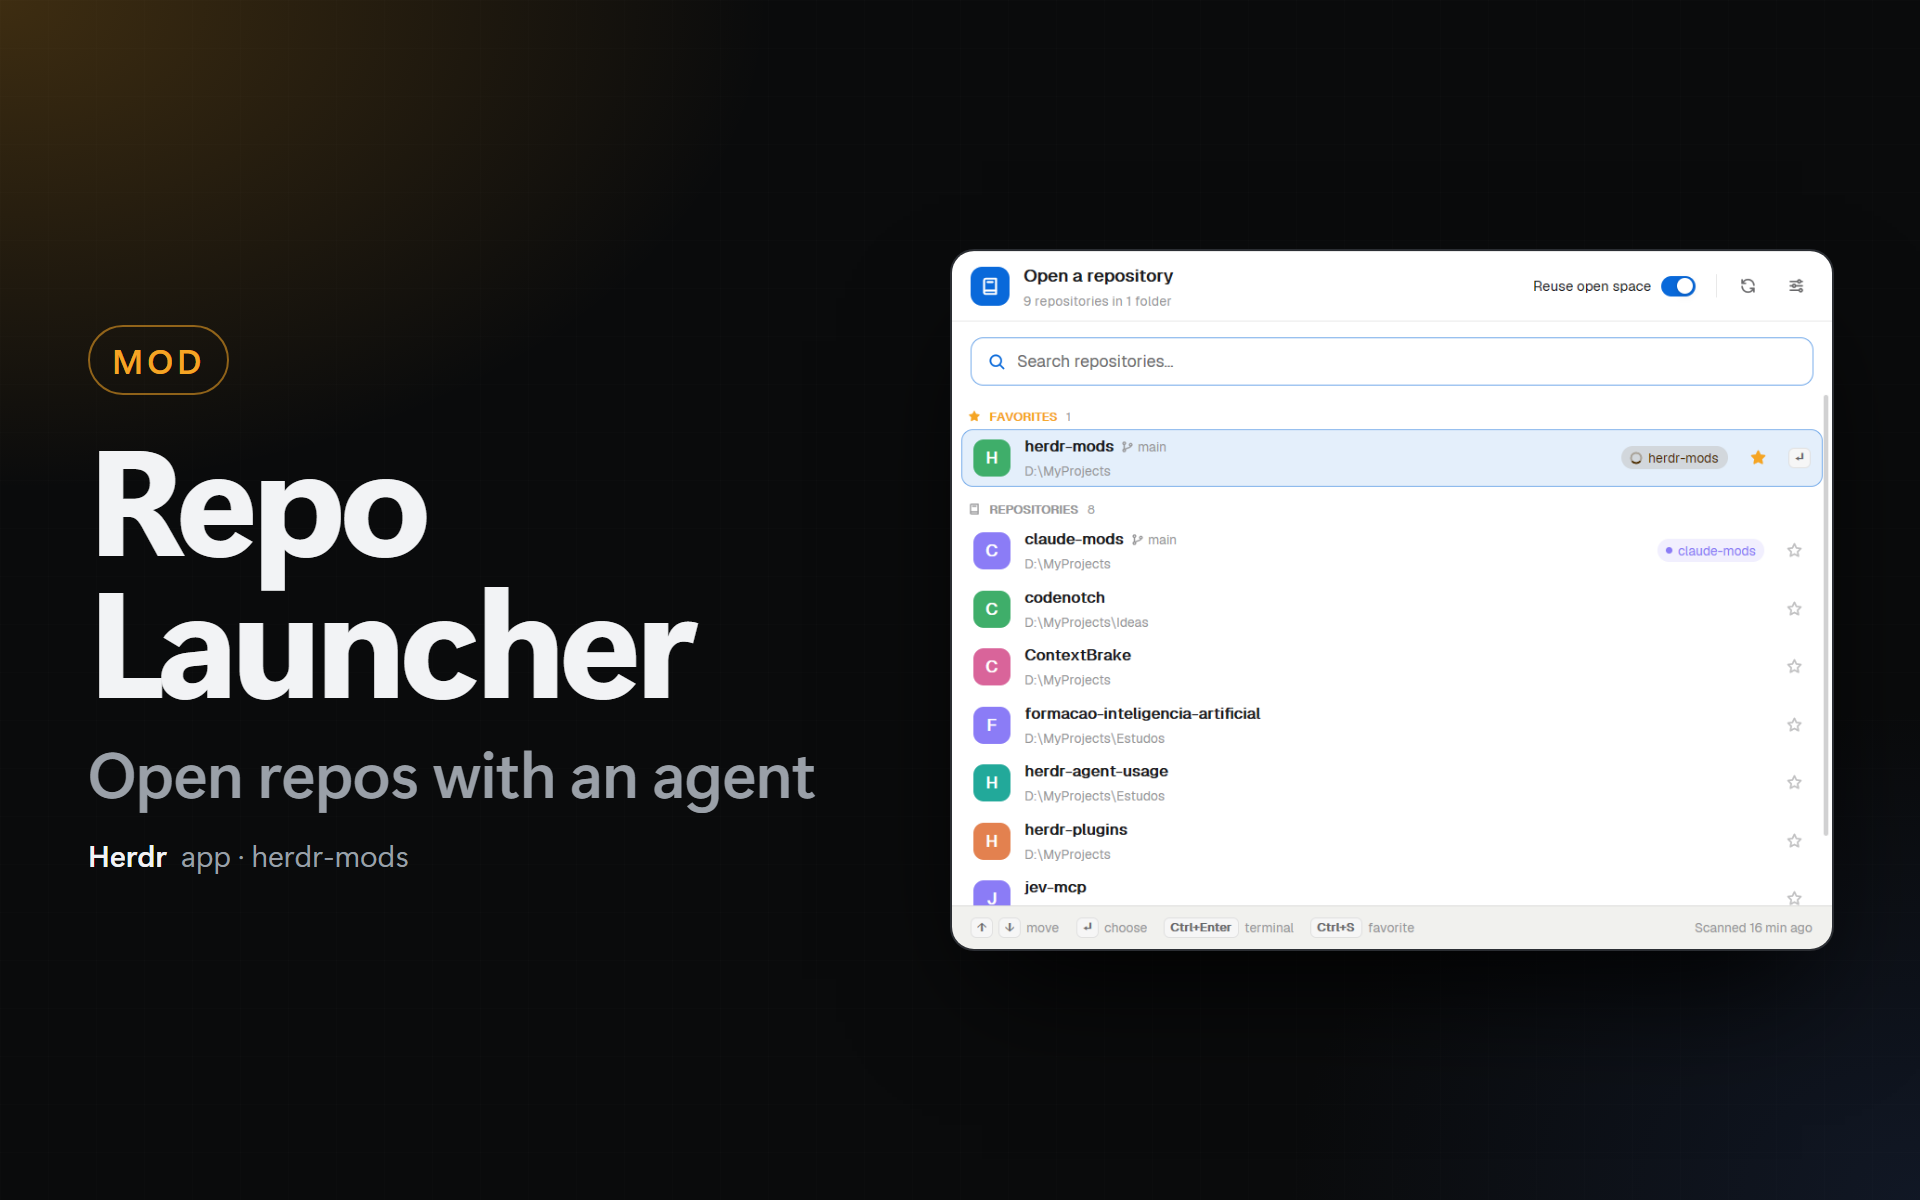
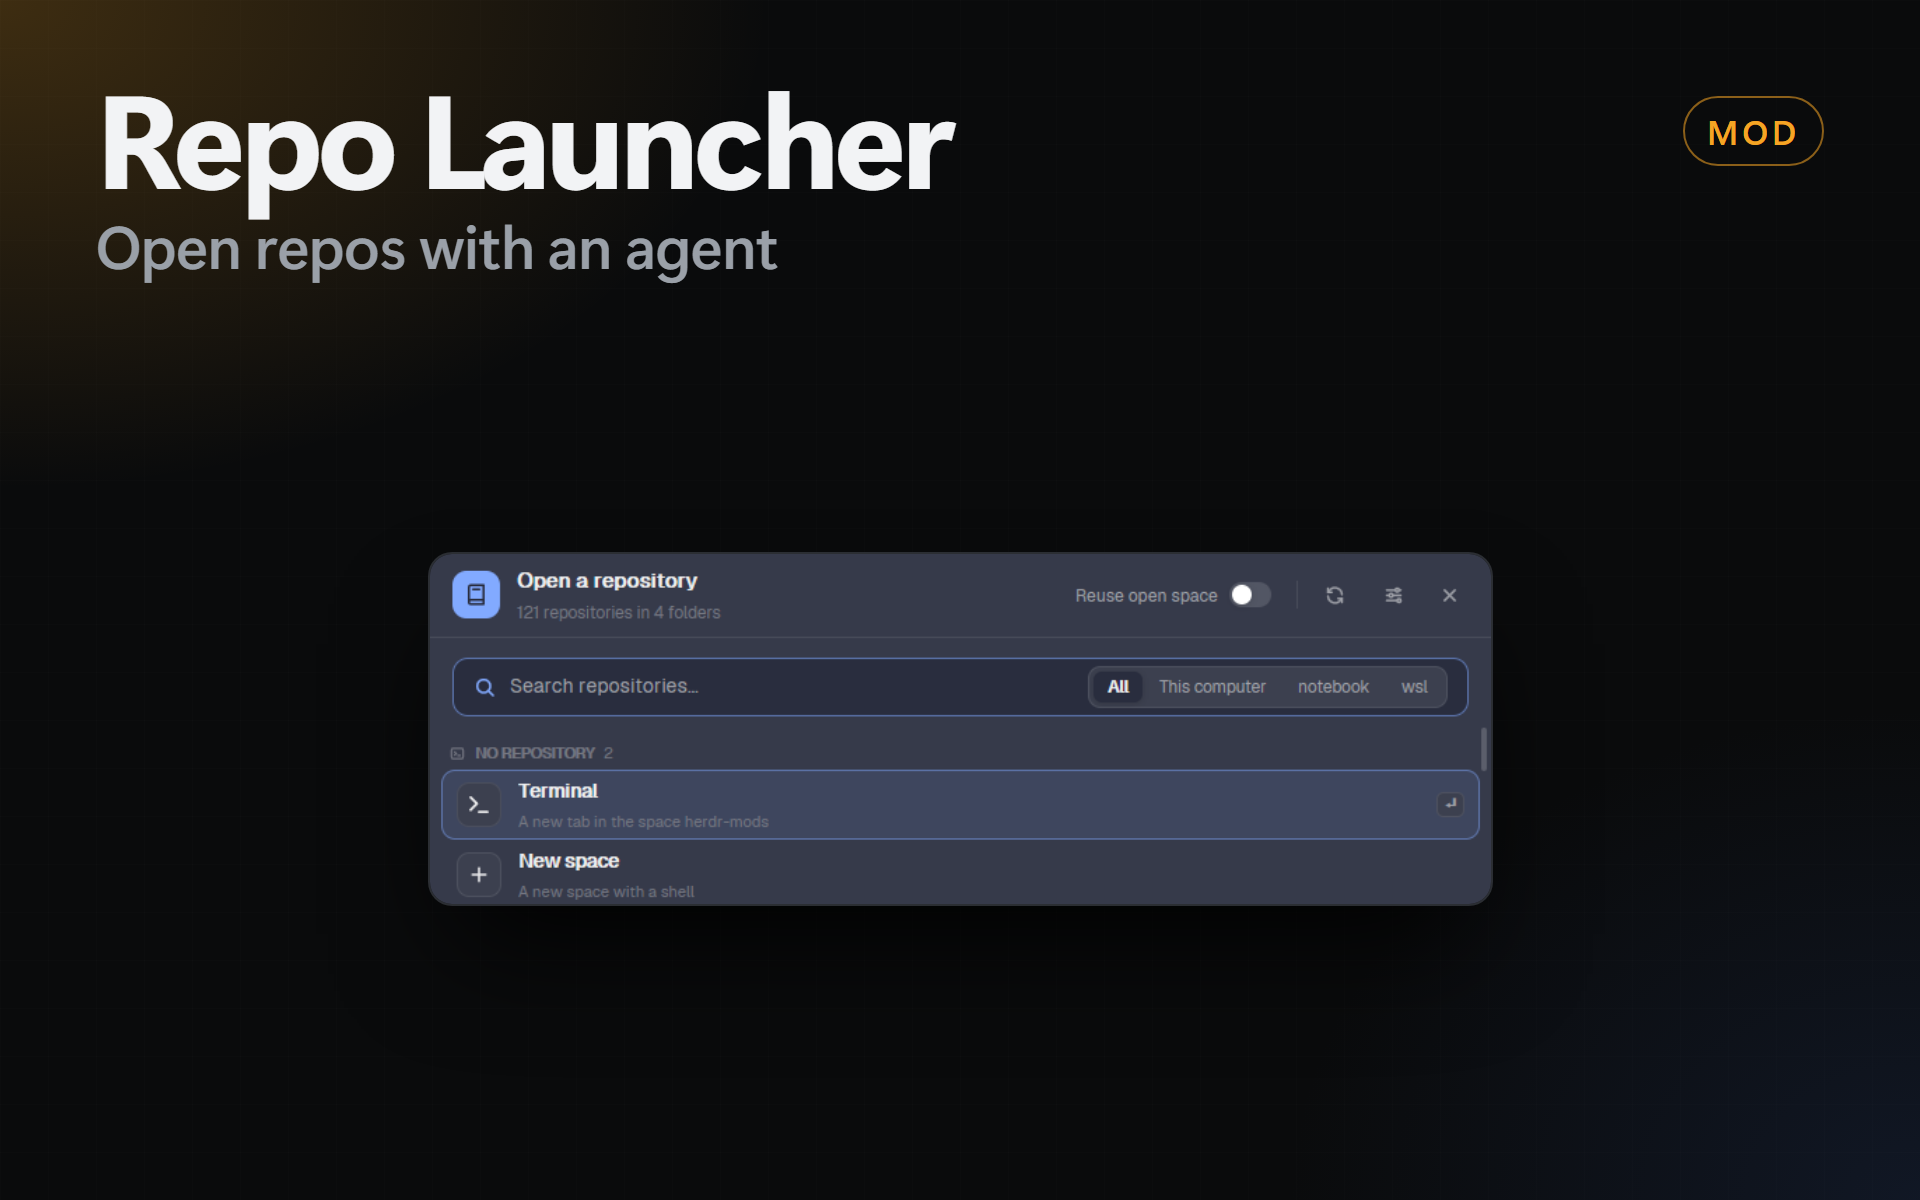
Open spaces on machines without repositories

diff --git a/repo-launcher-app/mods/repo-launcher/main.js b/repo-launcher-app/mods/repo-launcher/main.js
@@ -244,14 +244,14 @@ export default class RepoLauncher extends View {
     cx.notify();
   }
 
-  /** The choices of the quick filter: none when all repositories are on this computer. */
+  /** The choices of the quick filter, including machines with no repositories. */
   places() {
-    const names = [...new Set(cache().repos.map((r) => r.machine).filter(Boolean))].sort();
+    const names = remoteMachines().sort();
     if (!names.length) return [];
     return [{ value: "all", label: "All" }, { value: "local", label: "This computer" }, ...names.map((m) => ({ value: m, label: m }))];
   }
 
-  /** The quick filter now; "all" when its machine has no repositories any more. */
+  /** The quick filter now; "all" when its machine is no longer listed. */
   place() {
     return this.places().some((p) => p.value === memory.place) ? memory.place : "all";
   }
@@ -278,7 +278,7 @@ export default class RepoLauncher extends View {
       for (const r of items) rows.push({ kind: "repo", ...r });
     };
 
-    const free = this.freeRows(q);
+    const free = this.freeRows(q, place);
     const addFree = () => {
       if (!free.length) return;
       rows.push({ kind: "head", title: "No repository", count: free.length, symbol: "terminal" });
@@ -332,13 +332,16 @@ export default class RepoLauncher extends View {
    * Herdr's own New menu: in the shown space, or in a new space. Their
    * `repo` is a stand-in with `free: true` and no path.
    */
-  freeRows(q) {
+  freeRows(q, place) {
     const active = spaces().find((s) => s.active);
-    const machine = active?.machine ?? null;
+    const activeMachine = active?.machine ?? null;
+    const machine = place === "all" ? activeMachine : place === "local" ? null : place;
     const items = [
-      { key: "terminal", title: "Terminal", detail: active ? `A new tab in the space ${active.name}` : "A new tab in the shown space", pick: null },
       { key: "space", title: "New space", detail: machine ? `A new space on ${machine}` : "A new space with a shell", pick: "new" },
     ];
+    if (machine === activeMachine) {
+      items.unshift({ key: "terminal", title: "Terminal", detail: active ? `A new tab in the space ${active.name}` : "A new tab in the shown space", pick: null });
+    }
     const out = [];
     for (const it of items) {
       const match = q ? matchRepo(q, it.title, it.detail) : null;
@@ -766,7 +769,7 @@ export default class RepoLauncher extends View {
 
     const roots = allRoots();
     const subtitle = roots.length === 0
-      ? "Add a folder to start"
+      ? "Add a folder in Settings to find repositories"
       : `${c.repos.length} repositories in ${roots.length} folder${roots.length === 1 ? "" : "s"}`;
 
     const head = this.header(t, "Open a repository", subtitle, {
@@ -787,20 +790,20 @@ export default class RepoLauncher extends View {
       .child(svg(icon("search")).size(16).text_color(t.accent))
       .child(Input.new(this.query).flex_1().h_full().text_size(14).text_color(t.foreground))
       .when(Boolean(this.filter), (e) => e.child(div().text_size(11).text_color(t.dim).child(`${list.length} match${list.length === 1 ? "" : "es"}`)))
-      .when(this.places().length > 0, (e) => e.child(div().flex_none().tooltip(`Show the repositories of one machine (${prettyKeys("ctrl-m")})`)
+      .when(this.places().length > 0, (e) => e.child(div().flex_none().tooltip(`Choose a machine for repositories and new spaces (${prettyKeys("ctrl-m")})`)
         .on_mouse_down("left", (_e, cx) => cx.stop_propagation())
         .child(segmented(t, "rl-place", this.places(), this.place(), (v, cx) => this.setPlace(v, cx)))));
 
     let content;
-    if (roots.length === 0) {
+    if (!list.length && roots.length === 0) {
       content = this.emptyState(t, "folder-plus", "Add the folders that hold your repositories",
         "The launcher reads them once and keeps the list. Refresh reads them again.",
         h_flex().gap(8)
           .child(button(t, "rl-add-first", "Add folder…", (cx) => this.addRoot(cx), { primary: true, symbol: "plus" }))
           .when(remoteMachines().length > 0, (e) => e.child(button(t, "rl-add-remote-first", "Folder on another machine…", (cx) => this.openSettings(cx), { symbol: "folder-plus" }))));
-    } else if (c.repos.length === 0 && scanning) {
+    } else if (!list.length && c.repos.length === 0 && scanning) {
       content = this.emptyState(t, null, "Looking for repositories…", roots.map((r) => placeLabel(r.id)).join("  ·  "));
-    } else if (c.repos.length === 0) {
+    } else if (!list.length && c.repos.length === 0) {
       content = this.emptyState(t, "repo", "No repositories found",
         `The search opens ${3} folder levels under each root folder.`,
         button(t, "rl-rescan", "Refresh", (cx) => { memory.scanningSince = 0; this.scan(cx, { quiet: false }); }, { symbol: "refresh" }));

diff --git a/repo-launcher-app/README.md b/repo-launcher-app/README.md
@@ -17,7 +17,7 @@ A Herdr app mod that opens a repository from the keyboard. Press `Ctrl+P`, type 
 - **Cached agents.** The launcher keeps the list of installed agents in shared state, so the popup opens without starting a shell. After you install or remove an agent, click **Refresh agents** in the settings.
 - **Shortcut.** Change it in the settings: click **Change** and press the new keys. The launcher writes it to `keys.json`.
 - **Other machines.** Add a folder of a machine of `hc machine ls` in the settings: pick the machine and type the path (`~/code` or `C:\Projects`). Its repositories show in an **On <machine>** section, and a repository opens in a space on that machine, with the agents installed there. The machine can run Windows, macOS or Linux.
-- **Machine filter.** When some repositories are on other machines, a switch in the search bar shows all of them, only this computer, or only one machine (`Ctrl+M`).
+- **Machine picker.** Pick a machine in the search bar (or cycle with `Ctrl+M`), select **New space** under **No repository**, and press `Ctrl+Enter` to open a shell there. The picker includes machines with no repositories. **All** uses the current space's machine for new spaces.
 
 ![The choices of a repository: a terminal, and each agent with each of its accounts](preview-choices.png)
 
@@ -89,7 +89,7 @@ It needs the `repo-launcher` mod (it uses its icon and opens it).
 | List | `Ctrl+S` | Add or remove the favorite |
 | List | `Ctrl+E` | Turn "Reuse open space" on or off |
 | List | `Ctrl+R` | Read the root folders again |
-| List | `Ctrl+M` | Show all repositories, this computer only, or one machine only |
+| List | `Ctrl+M` | Cycle through machines for repositories and new spaces |
 | Choices | `1` to `9`, or `↑` `↓` and `Enter` | Open that choice |
 | Choices | `Tab`, `Shift+Tab` | Pick the space: a new space or an open space |
 | Choices | `Backspace` or `←` | Go back to the list |

diff --git a/SETUP-PROMPT.md b/SETUP-PROMPT.md
@@ -1,4 +1,4 @@
-<!-- herdr-mods-setup-version: 112 -->
+<!-- herdr-mods-setup-version: 113 -->
 # Set up or update my Herdr mods
 
 The first line of this file holds the version of the prompt. The `mods-hub`

diff --git a/whats-new/113.md b/whats-new/113.md
@@ -1,0 +1,1 @@
+- **repo-launcher:** Pick a machine and open a new space with a terminal, even if the machine has no repositories.
